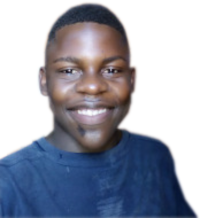
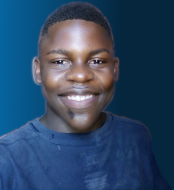
update fotos

diff --git a/perfil/pg-main.html b/perfil/pg-main.html
@@ -56,7 +56,7 @@
         <div id="ifundo">
                 <img id="fundo" src="imagens/rj-fundo-2.jpg" alt="ricardo-massungui" onmousemove="moverf()" onmouseout="sairf()" >
         <div id="iperfil">
-            <img src="imagens/ricardo-fp.png" id="f3" onmousemove="moverp()" onmouseout="sairp()">
+            <img id="perfil" src="imagens/ricardo-fp.png" onmousemove="moverp()" onmouseout="sairp()">
         </div>
         </div>
         
@@ -67,25 +67,27 @@
              <ul>
                 <li>
                     <p><strong>Linguagens:</strong></p>
-                    <p>
-                    <img class="imgbio" src="imagens/webs-techs.png" alt="tecnologias-web" ></p>
+                   
+                    <img class="imgbio" src="imagens/webs-techs.png" alt="tecnologias-web" >
                 </li>
                 <li>
                    
                     <p><strong>Frameworks:</strong></p>
                     
-                    <p>
+                 
                     <img class="imgbio" src="imagens/logo-ionic.png" alt="ionic-framework" >
                     <img class="imgbio" src="imagens/logo-react.png" alt="react-js" >
                     <img class="imgbio" src="imagens/logo-bootstrap.png" alt="bootstrap-framework" >
                     <img class="imgbio" src="imagens/logo-laravel.png" alt="laravel-framework" >
-                    <img class="imgbio" src="imagens/node.png" alt="node-js" ></p>
+                    <img class="imgbio" src="imagens/node.png" alt="node-js" >
+                
                 </li>
                 <li>
                     <p><strong>Instituição:</strong></p>
-                    <p>
+                  
                     <img class="imgbio" src="imagens/impal.png" alt="logo-impial">
-                    <img class="imgbio" src="imagens/impial.png" alt="IMPIAL-Instituto-médio"></p>
+                    <img class="imgbio" src="imagens/impial.png" alt="IMPIAL-Instituto-médio">
+                   
                 </li>
             </ul>
         </aside>
@@ -121,5 +123,6 @@
     </footer>
     <script src="pg-main.js"></script>
     <script src="pg-main_eventos.js"></script>
+  
 </body>
 </html>

diff --git a/perfil/pg-main_eventos.js b/perfil/pg-main_eventos.js
@@ -1,20 +1,20 @@
 // imagens da div slider
 function moverf(){
     let evento = document.querySelector('img#fundo')
-     evento.src='imagens/ricardo-fp_2.png.jpg'
+     evento.src='imagens/rj-fundo.jpg'
  
  }
  function sairf(){
      let evento = document.querySelector('img#fundo')
-     evento.src='imagens/ricardo-fp.png.jpg'
+     evento.src='imagens/rj-fundo-2.jpg'
  }
  // imagens da div slider
-function moverp(){
-    let evento = document.querySelector('f3')
-     evento.src='imagens/ricardo-fp_2.png.jpg'
+ function moverp(){
+    let evento = document.querySelector('img#perfil')
+     evento.src='imagens/ricardo-fp_2.png'
  
  }
  function sairp(){
-     let evento = document.querySelector('f3')
-     evento.src='imagens/ricardo-fp.png.jpg'
+     let evento = document.querySelector('img#perfil')
+     evento.src='imagens/ricardo-fp.png'
  }

diff --git a/perfil/style-main.css b/perfil/style-main.css
@@ -309,13 +309,11 @@ aside#bio{
     text-align: justify;
     text-indent: 1.8em;
 }
-aside#bio p#pbio{
-    margin: auto;
-    
+aside#bio ul{
+    text-align: center;
 }
-aside#bio img#imgbio{
-    
-    
+aside#bio ul p{
+    text-align: center;
 }
 aside > h3{
     background-color: var(--cor4) ;

diff --git a/perfil/pg-main_eventos-2.js b/perfil/pg-main_eventos-2.js
@@ -1,0 +1,9 @@
+function moverp(){
+    let evento = document.querySelector('perfil')
+     evento.src='imagens/ricardo-fp_2.png'
+ 
+ }
+ function sairp(){
+     let evento = document.querySelector('perfil')
+     evento.src='imagens/ricardo-fp.png'
+ }
